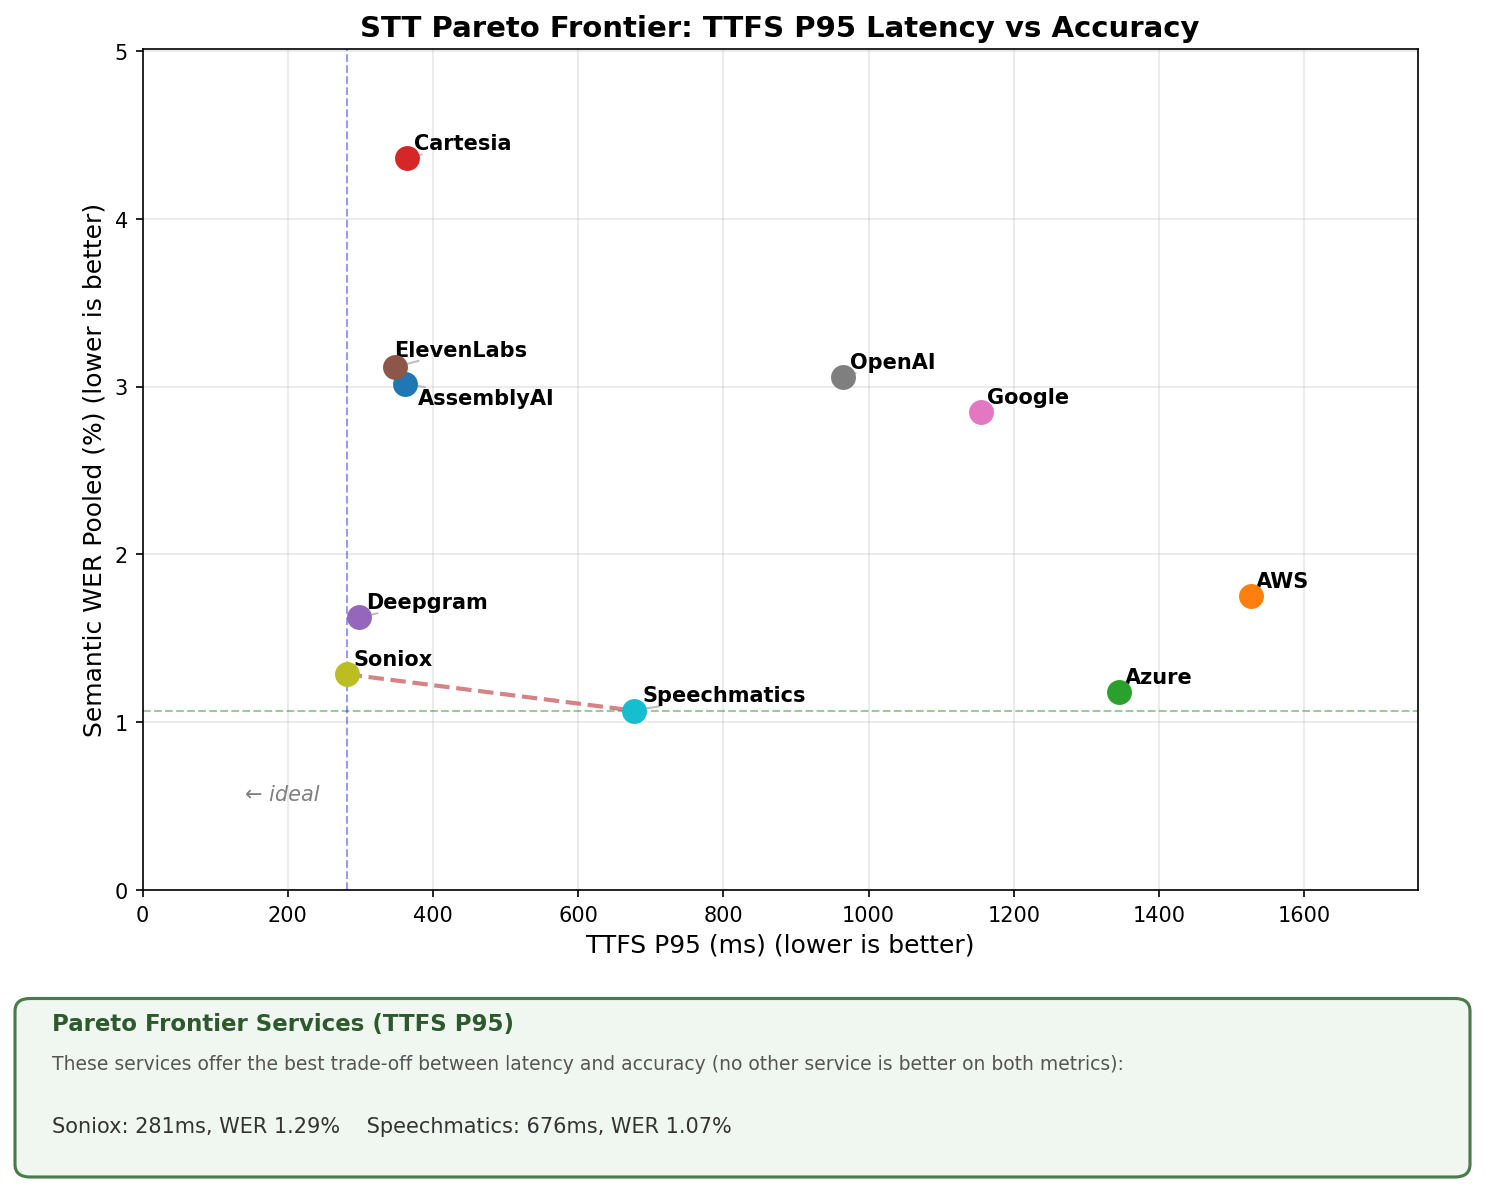
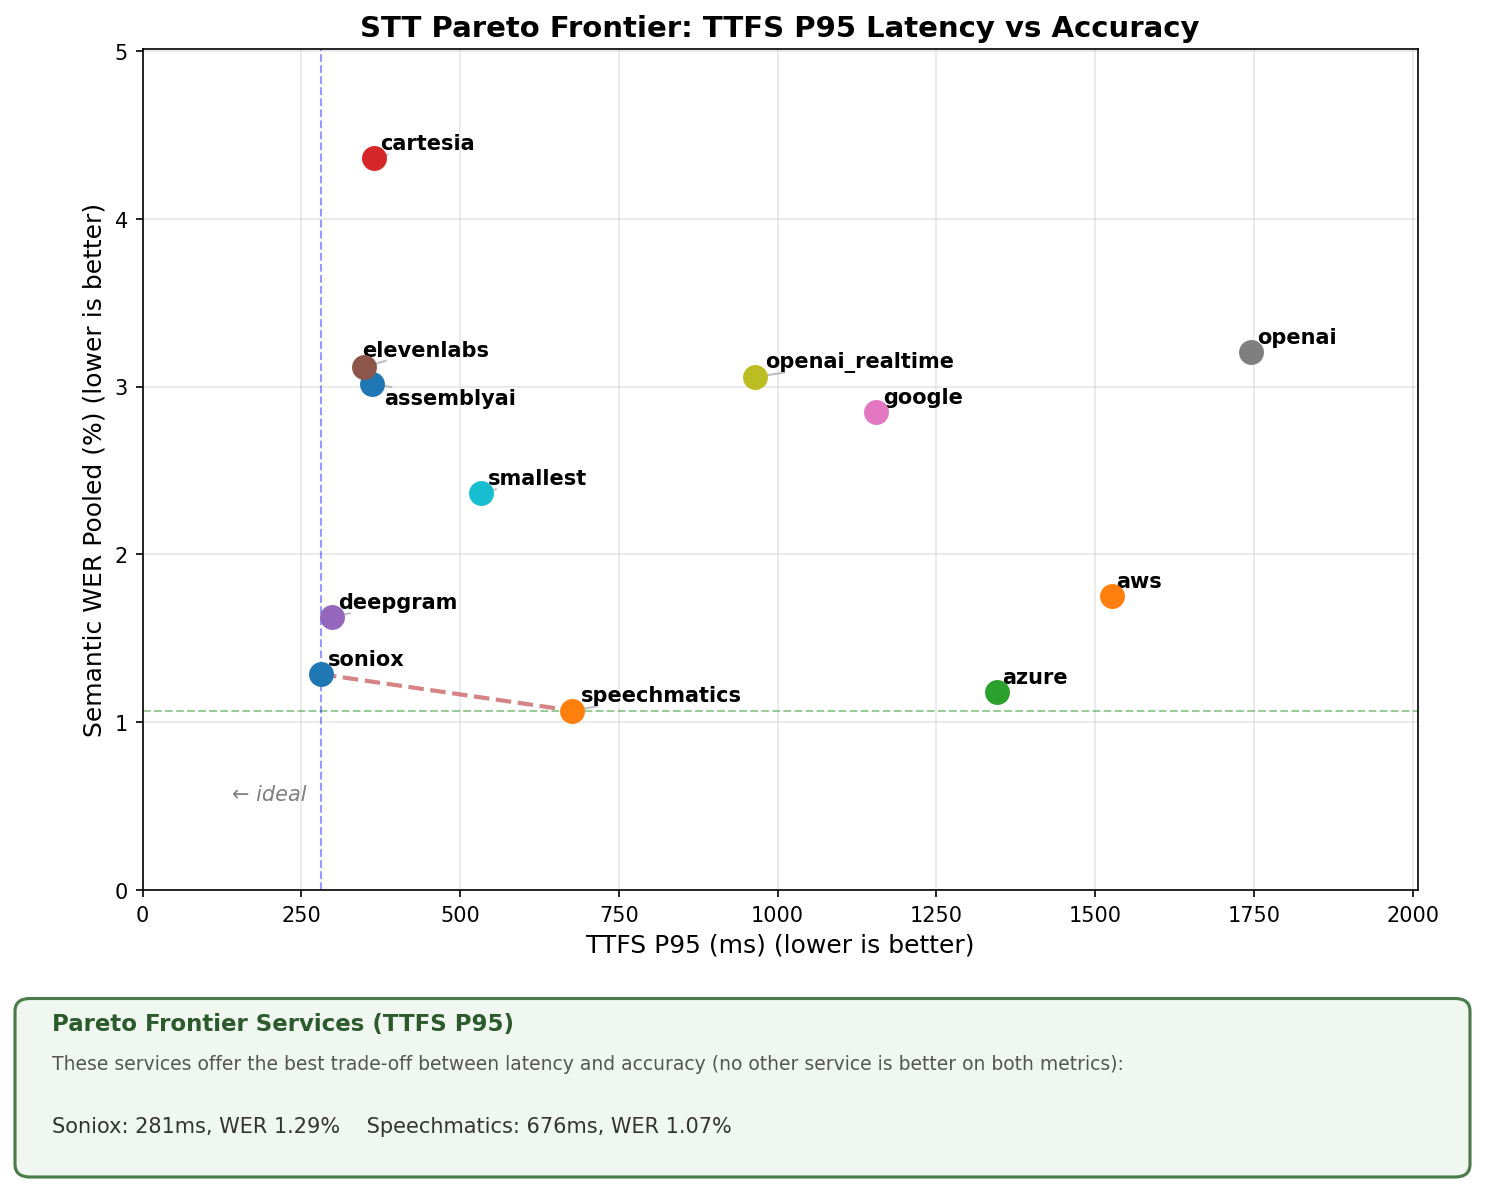
Add NVIDIA SageMaker STT support

diff --git a/src/stt_benchmark/services.py b/src/stt_benchmark/services.py
@@ -243,6 +243,23 @@ def create_nvidia() -> FrameProcessor:
     )
 
 
+def create_nvidia_sagemaker() -> FrameProcessor:
+    from pipecat.services.nvidia.sagemaker.stt import NvidiaSageMakerSTTService
+
+    for env_var in (
+        "AWS_ACCESS_KEY_ID",
+        "AWS_SECRET_ACCESS_KEY",
+        "AWS_SESSION_TOKEN",
+        "AWS_REGION",
+    ):
+        _set_env_from_config(env_var)
+
+    return NvidiaSageMakerSTTService(
+        endpoint_name=_get_env("SAGEMAKER_ASR_ENDPOINT_NAME"),
+        region=_get_env_from_config("AWS_REGION") or "us-west-2",
+    )
+
+
 def create_openai() -> FrameProcessor:
     from pipecat.services.openai.stt import OpenAISTTService
 
@@ -381,6 +398,10 @@ STT_SERVICES: dict[str, ServiceDefinition] = {
         factory=create_nvidia,
         required_env_vars=["NVIDIA_API_KEY"],
     ),
+    "nvidia_sagemaker": ServiceDefinition(
+        factory=create_nvidia_sagemaker,
+        required_env_vars=["SAGEMAKER_ASR_ENDPOINT_NAME"],
+    ),
     "openai": ServiceDefinition(
         factory=create_openai,
         required_env_vars=["OPENAI_API_KEY"],
@@ -445,6 +466,16 @@ def _get_env_from_config(env_var_name: str) -> str:
         return value
     # Fall back to os.getenv for env vars not in config
     return os.getenv(env_var_name, "")
+
+
+def _set_env_from_config(env_var_name: str) -> None:
+    """Set os.environ from config when a value exists and the env var is unset."""
+    if os.getenv(env_var_name):
+        return
+
+    value = _get_env_from_config(env_var_name)
+    if value:
+        os.environ[env_var_name] = value
 
 
 def is_service_available(name: str) -> bool:

diff --git a/src/stt_benchmark/config.py b/src/stt_benchmark/config.py
@@ -40,6 +40,7 @@ class BenchmarkConfig(BaseSettings):
     groq_api_key: str = Field(default="", alias="GROQ_API_KEY")
     nvidia_api_key: str = Field(default="", alias="NVIDIA_API_KEY")
     openai_api_key: str = Field(default="", alias="OPENAI_API_KEY")
+    sagemaker_asr_endpoint_name: str = Field(default="", alias="SAGEMAKER_ASR_ENDPOINT_NAME")
     sarvam_api_key: str = Field(default="", alias="SARVAM_API_KEY")
     smallest_api_key: str = Field(default="", alias="SMALLEST_API_KEY")
     soniox_api_key: str = Field(default="", alias="SONIOX_API_KEY")
@@ -48,6 +49,7 @@ class BenchmarkConfig(BaseSettings):
     # AWS credentials
     aws_access_key_id: str = Field(default="", alias="AWS_ACCESS_KEY_ID")
     aws_secret_access_key: str = Field(default="", alias="AWS_SECRET_ACCESS_KEY")
+    aws_session_token: str = Field(default="", alias="AWS_SESSION_TOKEN")
     aws_region: str = Field(default="", alias="AWS_REGION")
 
     # Azure credentials

diff --git a/src/stt_benchmark/models.py b/src/stt_benchmark/models.py
@@ -28,6 +28,7 @@ class ServiceName(str, Enum):
     GRADIUM = "gradium"
     GROQ = "groq"
     NVIDIA = "nvidia"
+    NVIDIA_SAGEMAKER = "nvidia_sagemaker"
     OPENAI = "openai"
     OPENAI_REALTIME = "openai_realtime"
     SARVAM = "sarvam"

diff --git a/README.md b/README.md
@@ -144,7 +144,7 @@ This gives accuracy metrics that reflect real-world impact on downstream LLM app
 
 ## Supported Services
 
-`assemblyai`, `aws`, `azure`, `cartesia`, `deepgram`, `deepgram_flux`, `elevenlabs`, `fal`, `gladia`, `google`, `gradium`, `groq`, `nvidia`, `openai`, `sarvam`, `smallest`, `soniox`, `speechmatics`, `whisper`
+`assemblyai`, `aws`, `azure`, `cartesia`, `deepgram`, `deepgram_flux`, `elevenlabs`, `fal`, `gladia`, `google`, `gradium`, `groq`, `nvidia`, `openai`, `sagemaker`, `sarvam`, `smallest`, `soniox`, `speechmatics`, `whisper`
 
 See `env.example` for required API keys.
 

diff --git a/docs/cli.md b/docs/cli.md
@@ -77,7 +77,7 @@ uv run stt-benchmark run [OPTIONS]
 
 ```
 assemblyai, aws, azure, cartesia, deepgram, elevenlabs, fal,
-gladia, google, gradium, groq, nvidia, openai,
+gladia, google, gradium, groq, nvidia, openai, sagemaker,
 sarvam, smallest, soniox, speechmatics, whisper
 ```
 